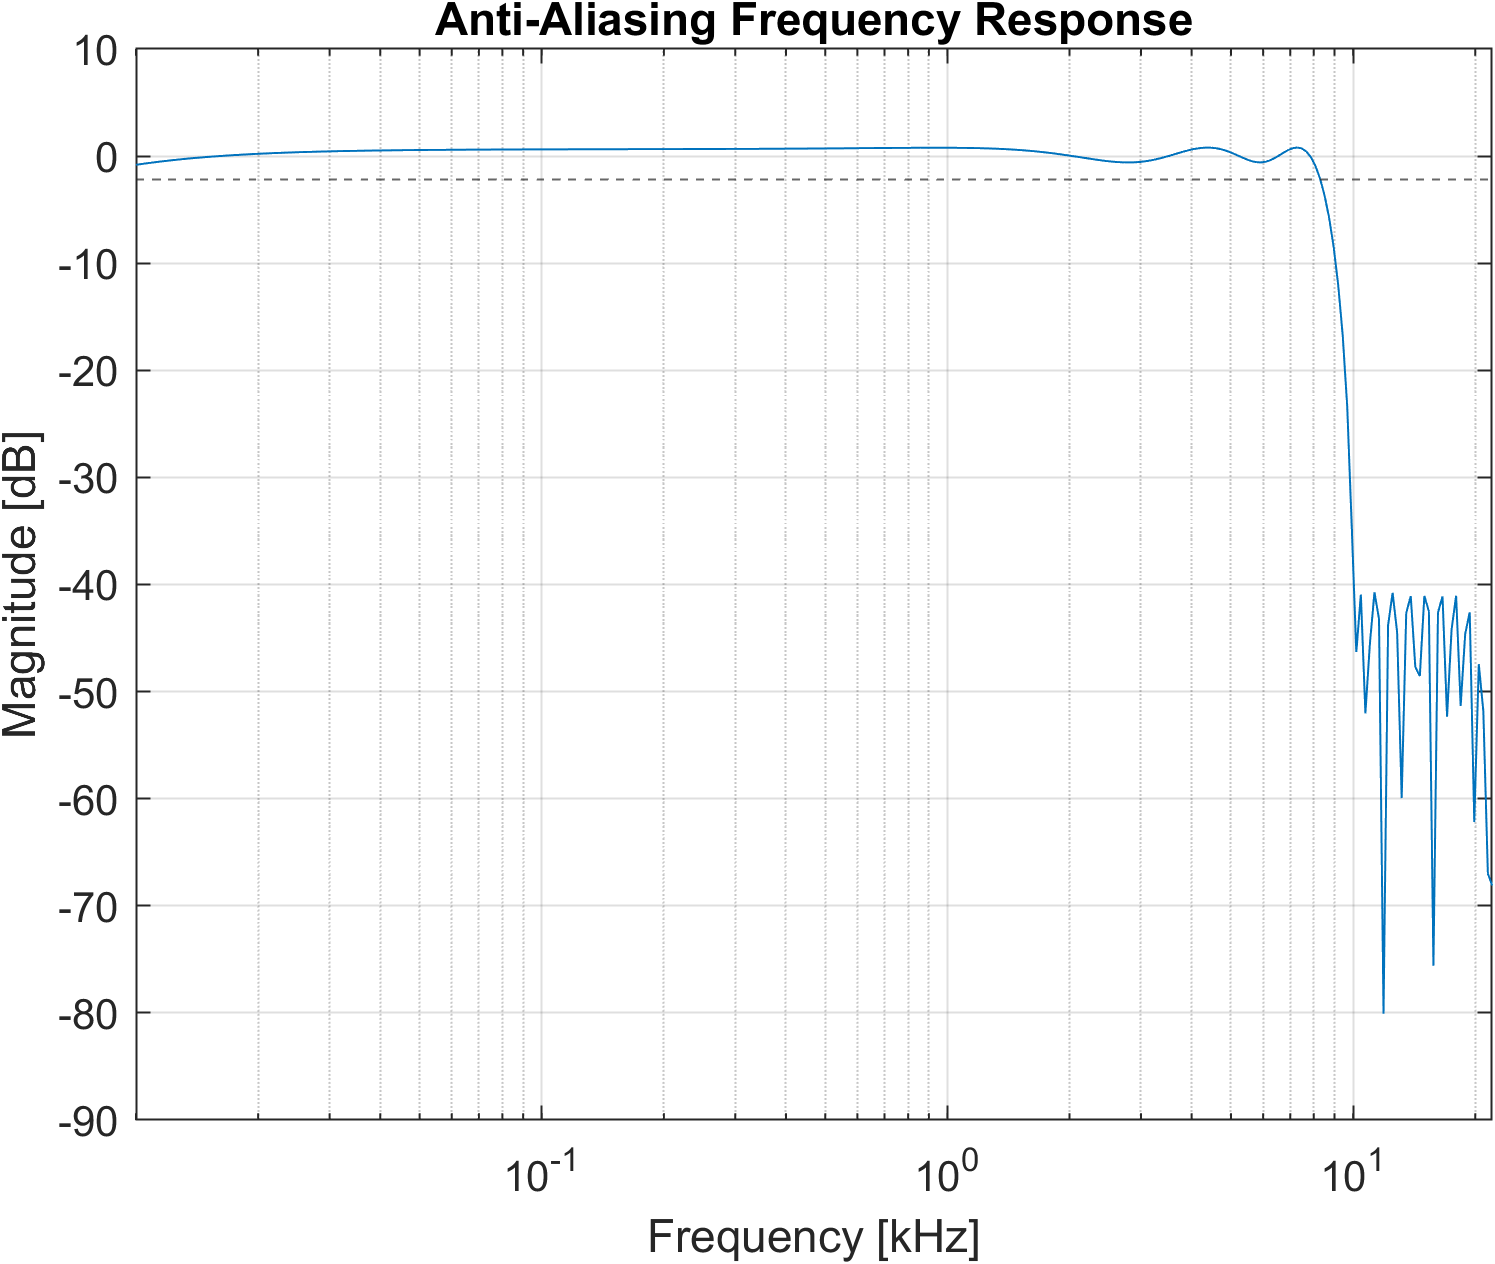
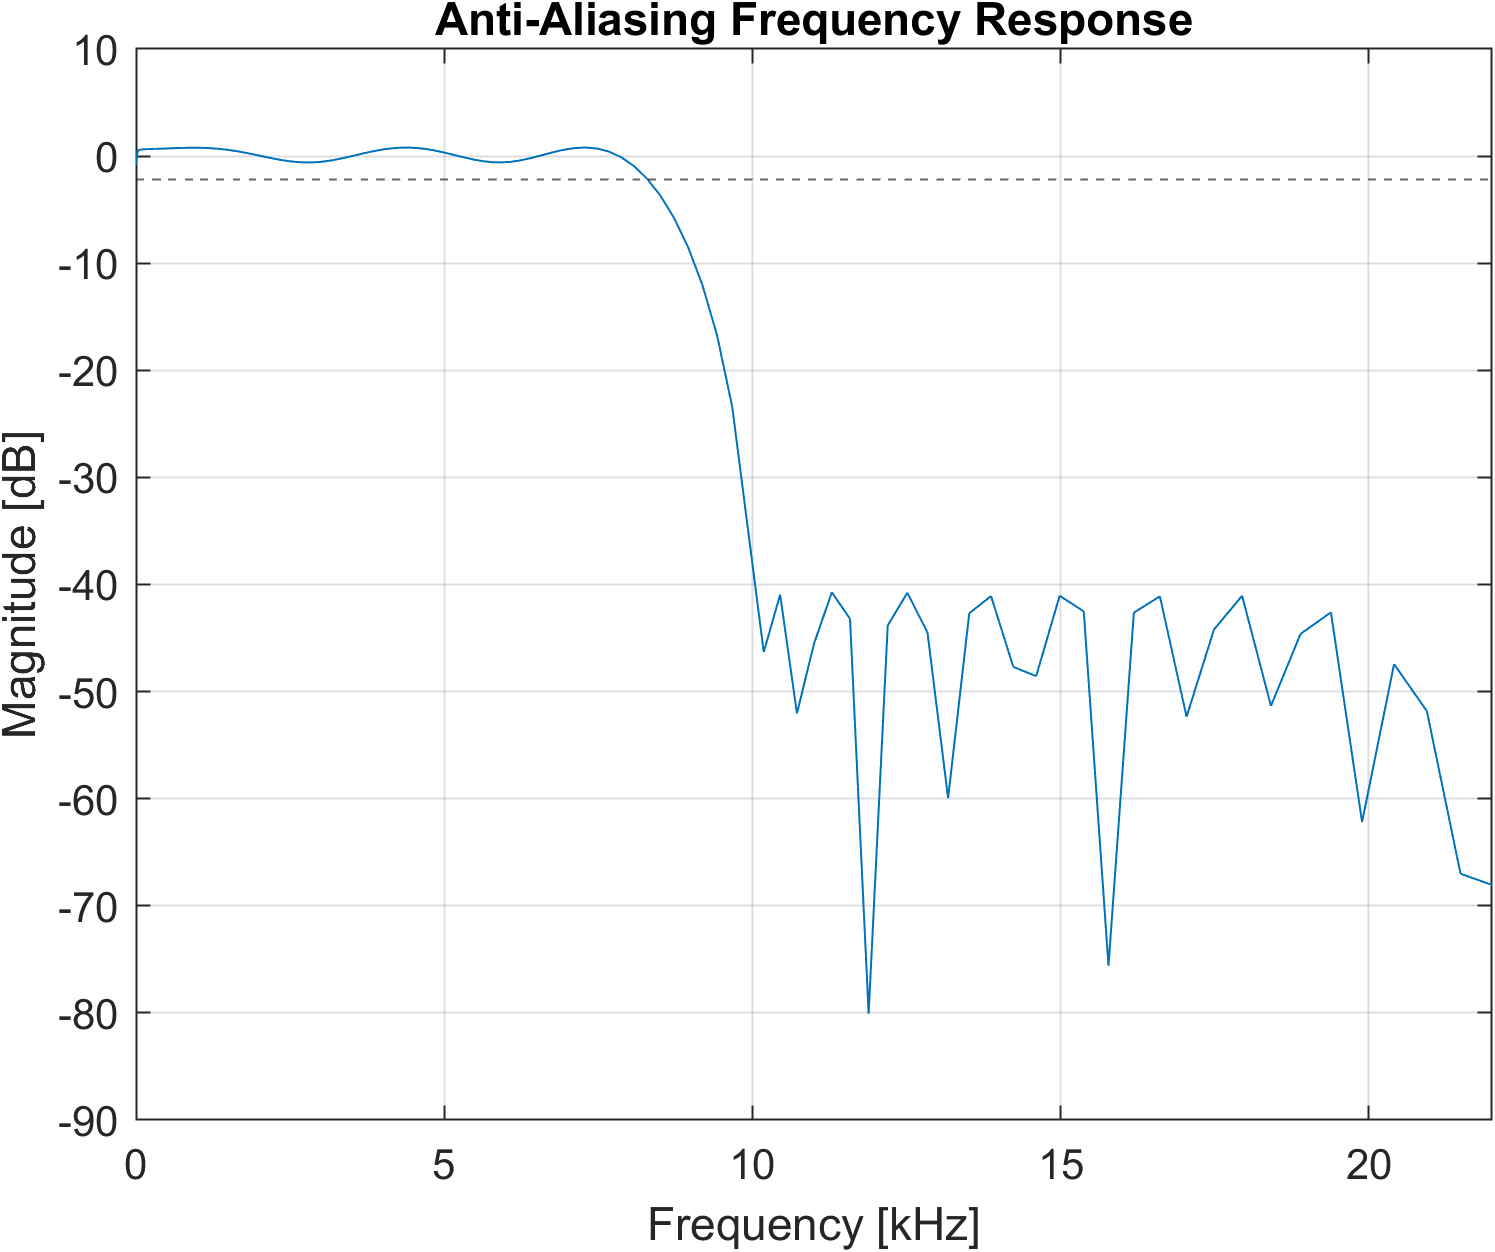
revise figures

diff --git a/gitfigures/system_design/overdrive/overdrive_aa_filter_design.m b/gitfigures/system_design/overdrive/overdrive_aa_filter_design.m
@@ -1,0 +1,36 @@
+fs = 44100;  % Sampling rate
+folder_path = pwd;
+% FIR coefficients converted from Q15 to floating point
+b = [-0.014035107773065391, ...
+     -0.018630081589955532, ...
+     -0.0064570708316313225, ...
+      0.017545637454152153, ...
+      0.026327058500797237, ...
+      0.004799943536504513, ...
+     -0.022340536030916566, ...
+     -0.01423386907051739, ...
+      0.028541099105363423, ...
+      0.04944618491436379, ...
+      0.0027674927202366393, ...
+     -0.06907287574324009, ...
+     -0.05638298801256543, ...
+      0.09688937225374243, ...
+      0.30496985939557847, ...
+      0.4022891482457461, ...
+      0.30496985939557847, ...
+      0.09688937225374243, ...
+     -0.05638298801256543, ...
+     -0.06907287574324009, ...
+      0.0027674927202366393, ...
+      0.04944618491436379, ...
+      0.028541099105363423, ...
+     -0.01423386907051739, ...
+     -0.022340536030916566, ...
+      0.004799943536504513, ...
+      0.026327058500797237, ...
+      0.017545637454152153, ...
+     -0.0064570708316313225, ...
+     -0.018630081589955532, ...
+     -0.014035107773065391];
+% Visualize frequency response
+h = fvtool(b, 1, 'Fs', fs);

diff --git a/gitfigures/system_design/overdrive/overdrive_filter_test.m b/gitfigures/system_design/overdrive/overdrive_filter_test.m
@@ -8,7 +8,7 @@ fig_else = figure;
 for i = 1:length(data)
     if i == 1
         figure(fig_if); 
-        semilogx(data{i}.Frequency_Hz_*1E-3,data{i}.Channel2Magnitude_dB_);
+        plot(data{i}.Frequency_Hz_*1E-3,data{i}.Channel2Magnitude_dB_);
         xlabel('Frequency [kHz]');
         ylabel('Magnitude [dB]');
         title('Anti-Aliasing Frequency Response');
